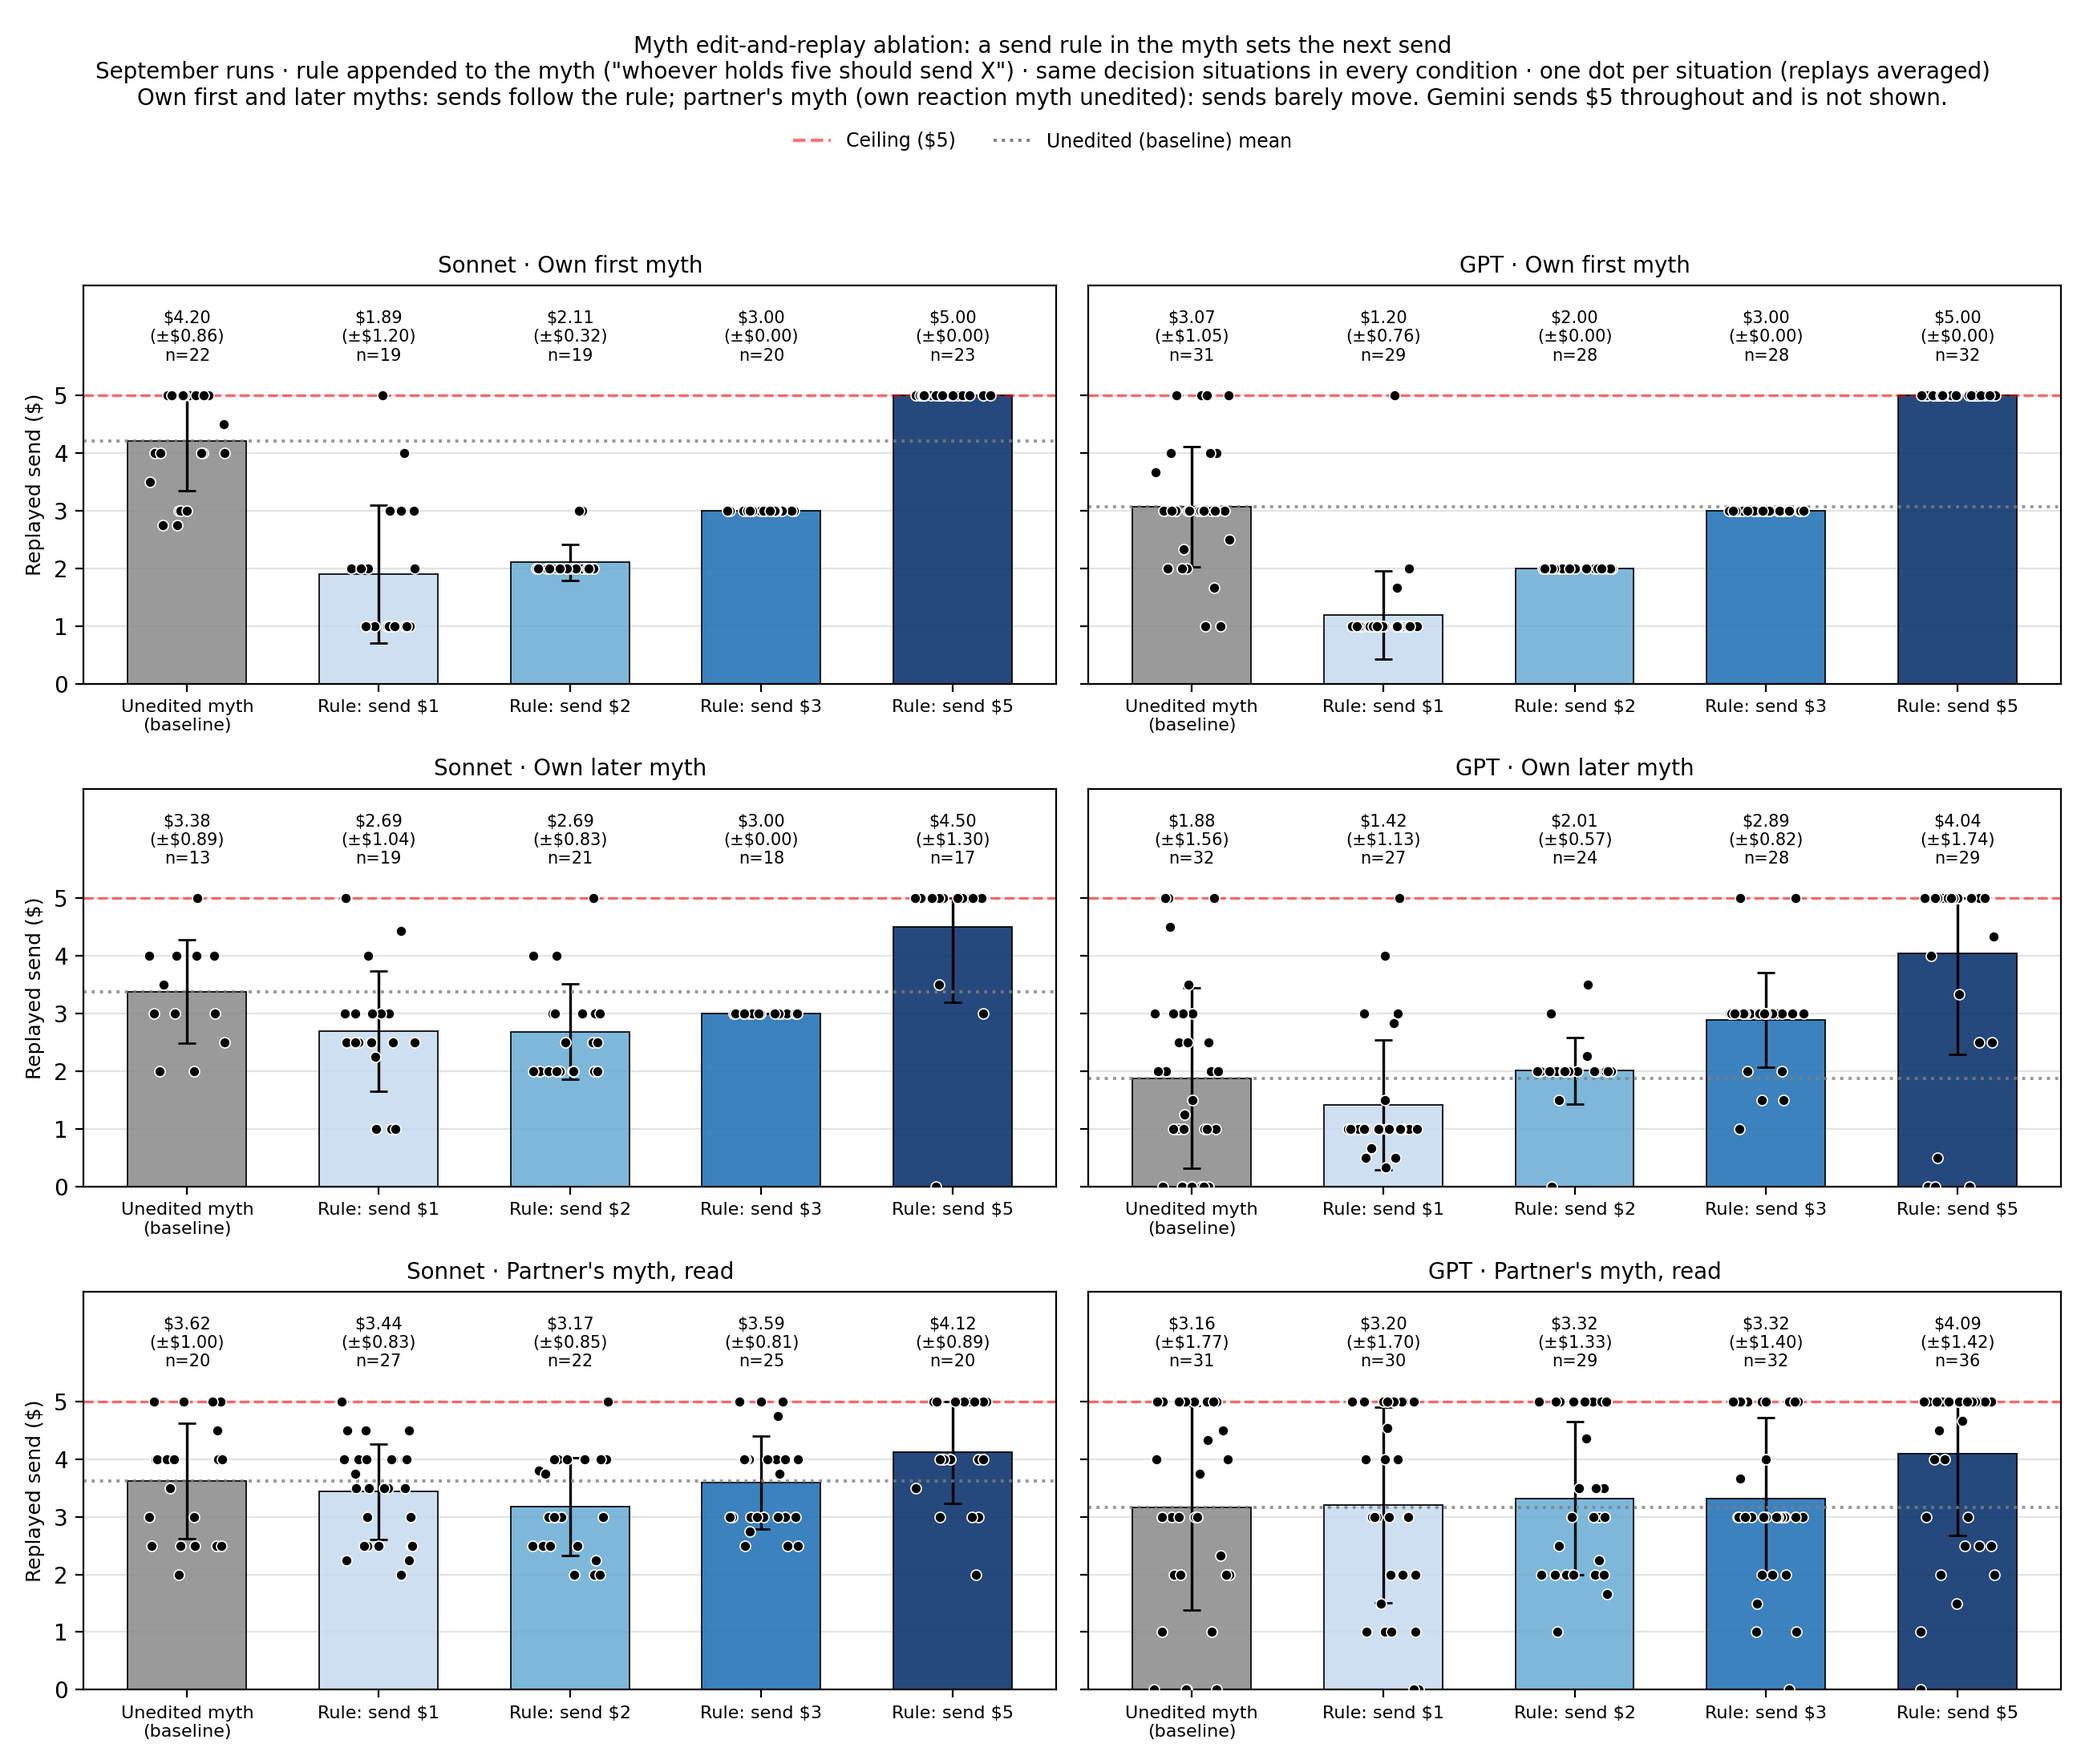
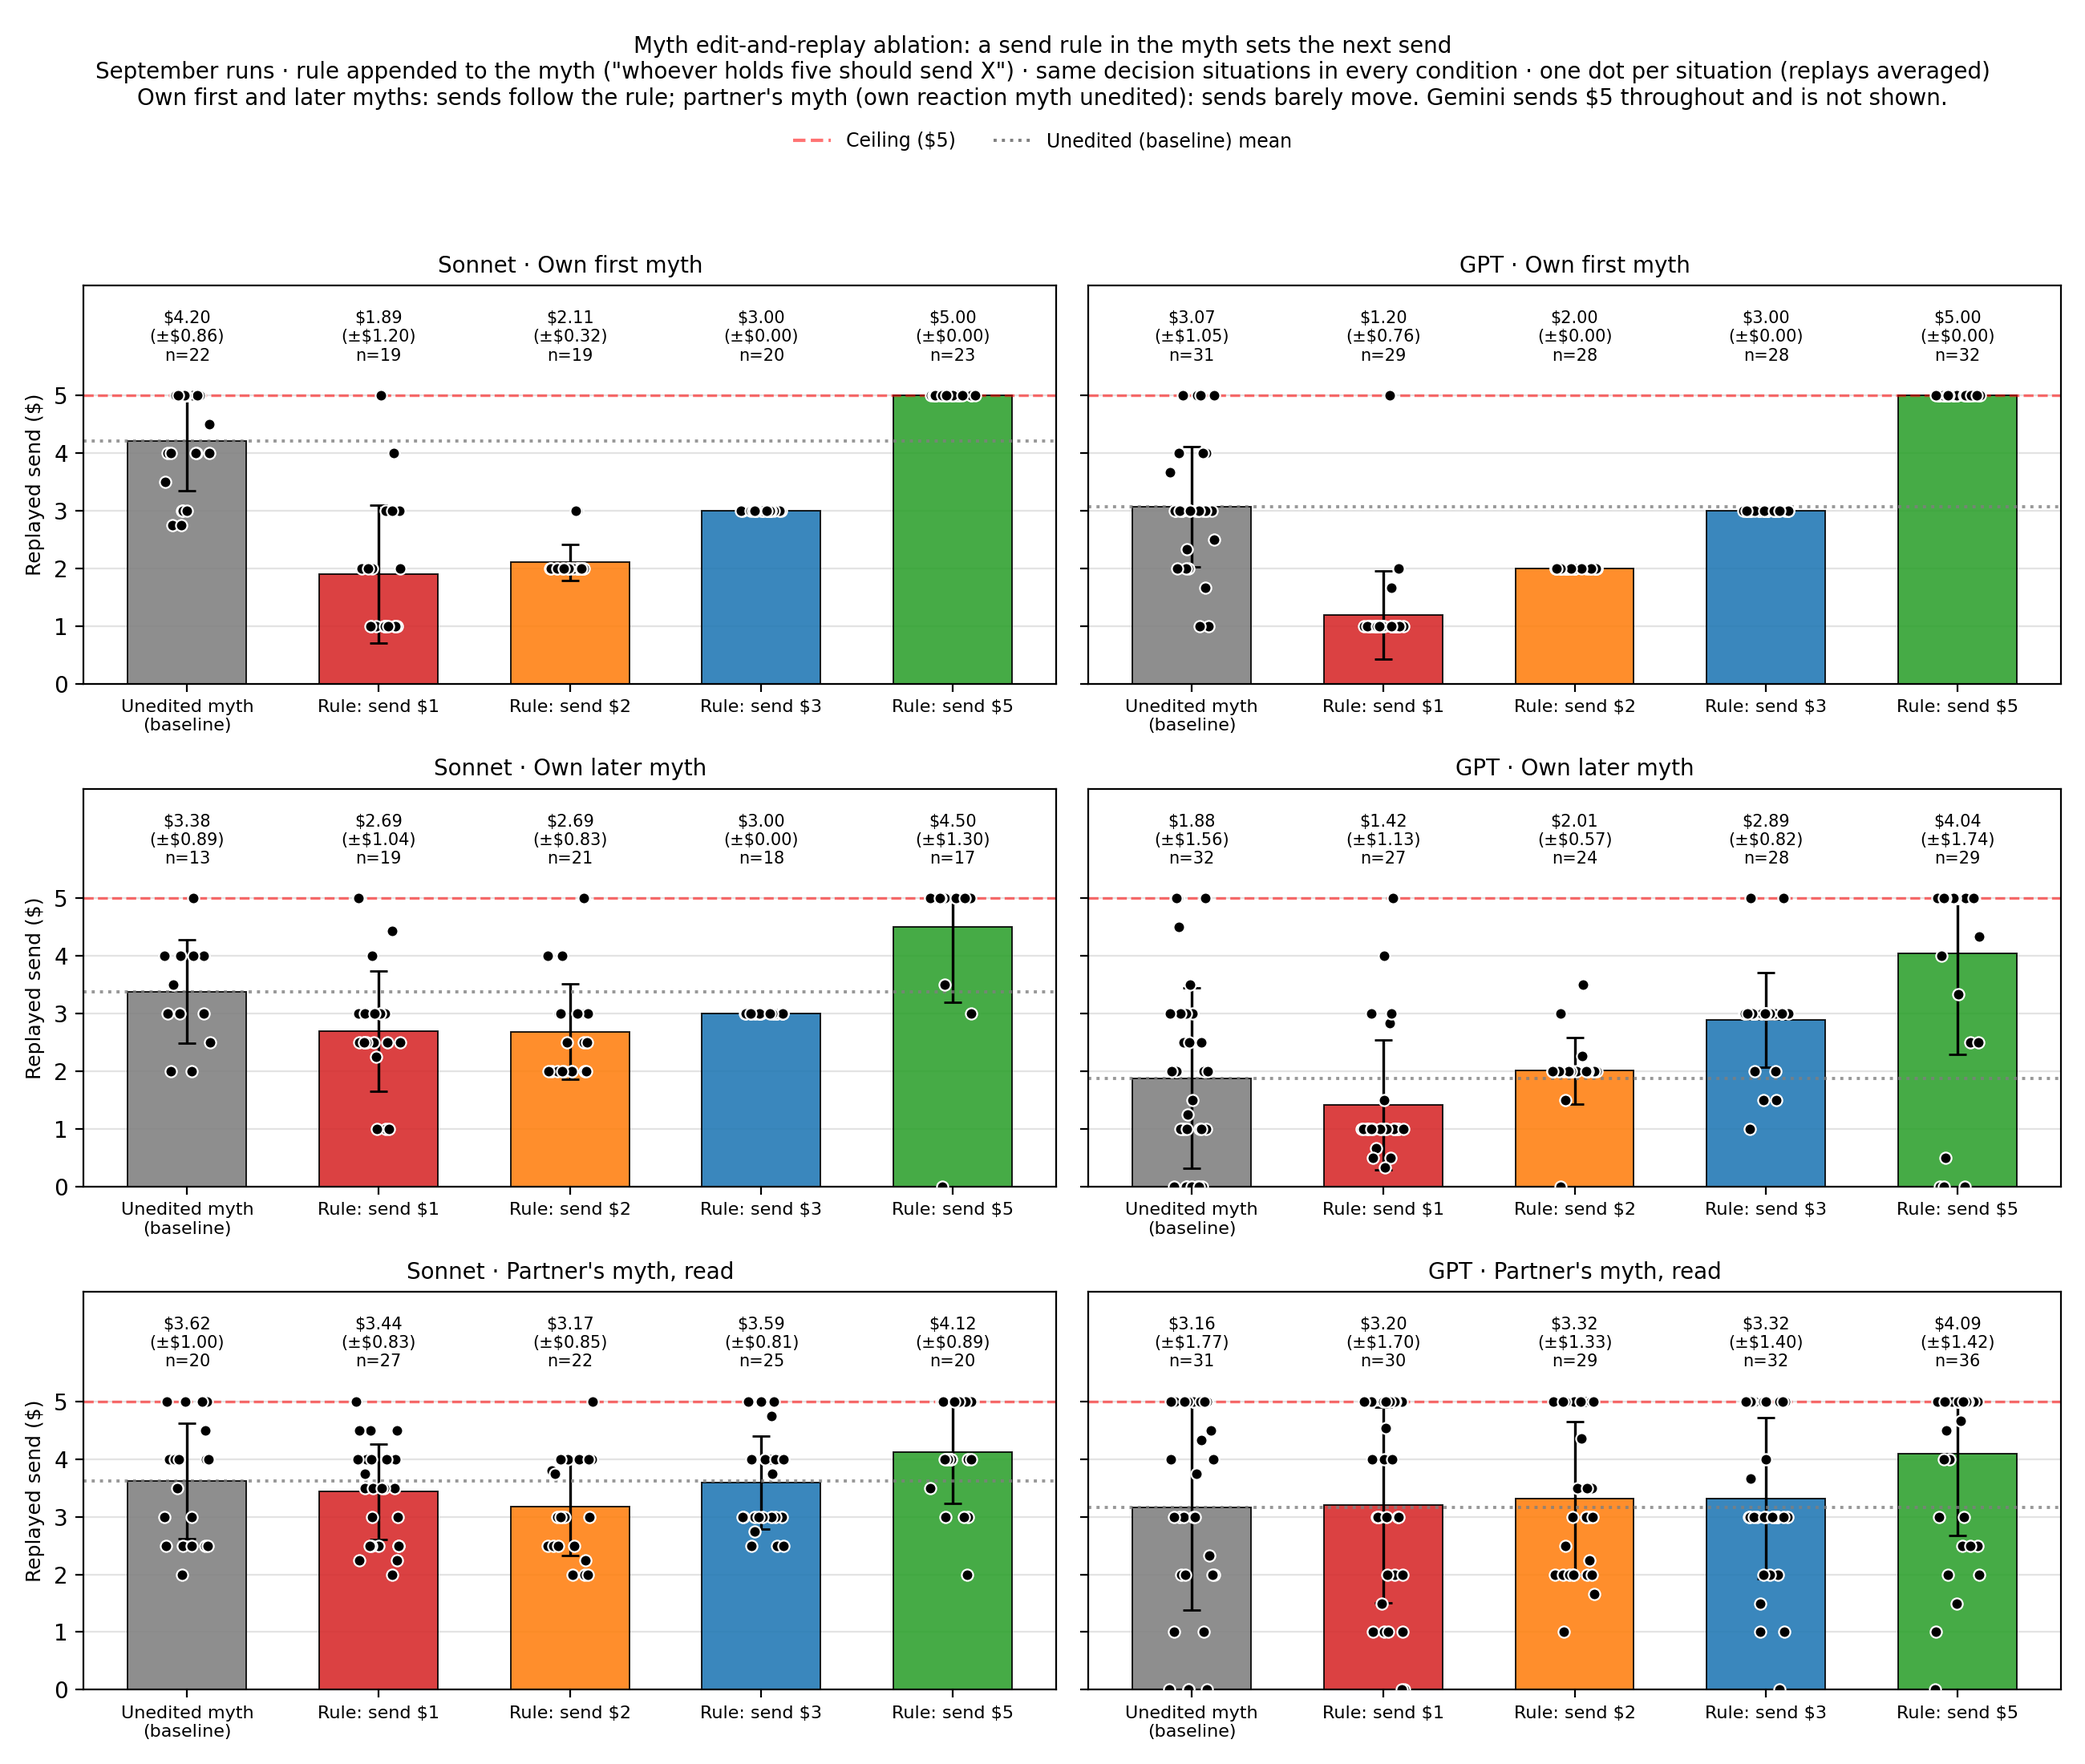
Use the slide-678 ablation colours for the replay bar plot

diff --git a/analyses/myth_replay_plots.py b/analyses/myth_replay_plots.py
@@ -217,8 +217,9 @@ def ablation_style() -> Path:
     d = d[d["mode"].isin(["orig", "rule"])].copy()
     d["cond"] = np.where(d["mode"] == "orig", "unedited", "$" + d["edited_amount"].fillna(0).astype(int).astype(str))
     cm = d.groupby(["arm", "family", "cond", "cid"], as_index=False)["send"].mean()
-    conds = [("unedited", "Unedited myth\n(baseline)", "#8c8c8c"), ("$1", "Rule: send $1", "#c6dbef"),
-             ("$2", "Rule: send $2", "#6baed6"), ("$3", "Rule: send $3", "#2171b5"), ("$5", "Rule: send $5", "#08306b")]
+    # colours from analyses/plot_slide678_rerun.py: grey baseline, red (least cooperative) -> green (most)
+    conds = [("unedited", "Unedited myth\n(baseline)", "#7f7f7f"), ("$1", "Rule: send $1", "#d62728"),
+             ("$2", "Rule: send $2", "#ff7f0e"), ("$3", "Rule: send $3", "#1f77b4"), ("$5", "Rule: send $5", "#2ca02c")]
     fams = ["Sonnet", "GPT"]
     fig, axes = plt.subplots(len(ARMS), len(fams), figsize=(13, 11), sharey=True)
     for i, (arm, arm_name) in enumerate(ARMS):
@@ -234,8 +235,8 @@ def ablation_style() -> Path:
                 ax.bar(k, mu, width=0.62, color=color, edgecolor="black", linewidth=0.7, alpha=0.88)
                 # +-sd whisker, clipped to the $0-$5 range a send can take
                 ax.errorbar(k, mu, yerr=[[min(sd, mu)], [min(sd, 5 - mu)]], color="black", capsize=4, lw=1.2)
-                ax.scatter(k + RNG.uniform(-0.2, 0.2, len(v)), v, s=22, color="black", edgecolor="white",
-                           linewidth=0.6, zorder=3)
+                ax.scatter(k + RNG.uniform(-0.12, 0.12, len(v)), v, s=26, color="black", edgecolor="white",
+                           linewidth=0.8, zorder=3)
                 ax.text(k, 5.55, f"${mu:.2f}\n(±${sd:.2f})\nn={len(v)}", ha="center",
                         va="bottom", fontsize=7.5)
             ax.axhline(5, color="red", ls="--", alpha=0.55, lw=1.2)
